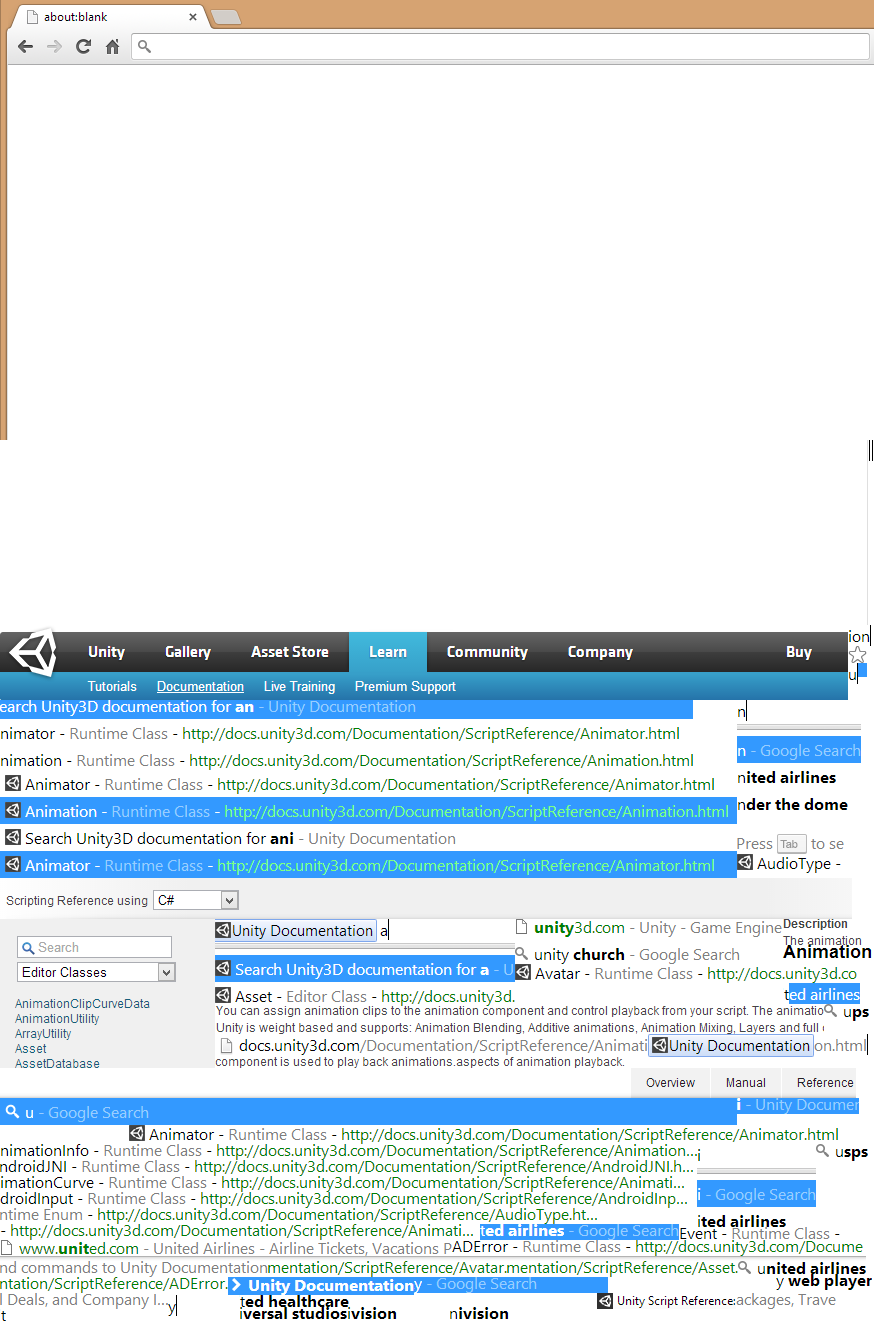
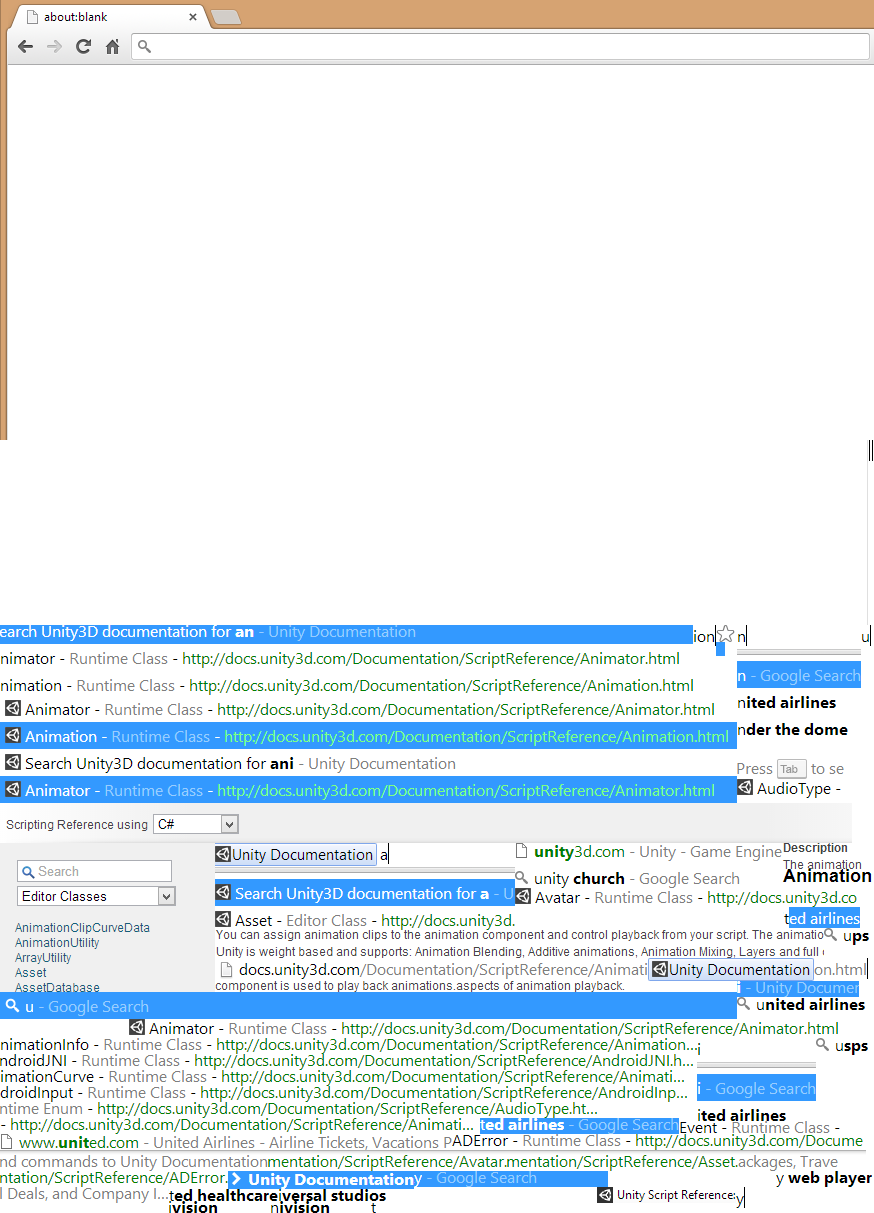
Github page and animation changes.

diff --git a/unity_docs_anim.js b/unity_docs_anim.js
@@ -1,1 +1,1 @@
-anim_timeline = [{"delay": 90, "blit": [["0", "0", "874", "440", "0", "0"]]}, {"delay": 180, "blit": [["872", "440", "1", "21", "157", "35"]]}, {"delay": 90, "blit": [["871", "440", "1", "21", "157", "35"]]}, {"delay": 90, "blit": [["848", "663", "10", "21", "157", "35"], ["0", "1098", "737", "27", "132", "71"], ["816", "1144", "52", "17", "138", "105"], ["824", "1004", "45", "17", "138", "132"], ["738", "1261", "128", "13", "138", "159"], ["0", "1256", "866", "5", "8", "185"]]}, {"delay": 90, "blit": [["737", "700", "124", "114", "166", "35"], ["449", "1307", "100", "12", "166", "160"]]}, {"delay": 90, "blit": [["697", "1144", "119", "83", "175", "35"], ["347", "1307", "102", "12", "175", "133"], ["239", "1307", "108", "12", "175", "160"]]}, {"delay": 90, "blit": [["783", "983", "77", "21", "178", "35"], ["480", "1224", "199", "16", "179", "79"], ["0", "1309", "86", "12", "178", "106"], ["239", "1295", "110", "12", "178", "133"], ["0", "1240", "452", "16", "138", "158"], ["736", "1293", "100", "16", "590", "160"], ["0", "1293", "168", "16", "691", "160"]]}, {"delay": 900, "blit": [["168", "1295", "71", "21", "184", "35"], ["737", "834", "107", "20", "490", "37"], ["0", "1261", "268", "16", "598", "40"], ["232", "1278", "9", "14", "853", "78"], ["414", "1277", "194", "16", "184", "79"], ["776", "1274", "96", "16", "184", "106"], ["515", "919", "267", "45", "138", "131"], ["414", "1293", "183", "14", "407", "160"], ["597", "1208", "100", "16", "590", "160"], ["608", "1277", "168", "16", "691", "160"]]}, {"delay": 900, "blit": [["648", "1034", "166", "23", "133", "35"], ["737", "814", "107", "20", "490", "37"], ["515", "983", "268", "16", "598", "40"], ["228", "1277", "186", "18", "137", "77"], ["858", "663", "9", "14", "853", "78"]]}, {"delay": 180, "blit": [["215", "919", "300", "87", "137", "35"], ["280", "700", "136", "16", "437", "79"], ["507", "1261", "231", "16", "510", "106"], ["649", "727", "30", "12", "742", "106"], ["323", "755", "71", "13", "437", "107"], ["515", "964", "342", "19", "137", "130"], ["268", "1261", "239", "16", "536", "133"], ["649", "727", "30", "12", "776", "133"], ["333", "728", "54", "13", "480", "134"], ["5", "775", "16", "16", "137", "157"], ["452", "1240", "411", "16", "157", "160"], ["0", "1277", "228", "16", "569", "160"], ["649", "727", "30", "12", "798", "160"], ["0", "1125", "866", "19", "8", "184"], ["737", "854", "104", "19", "137", "211"], ["0", "1208", "597", "16", "265", "214"], ["70", "728", "17", "11", "246", "215"], ["0", "1256", "866", "5", "8", "239"]]}, {"delay": 180, "blit": [["861", "625", "10", "21", "310", "35"], ["0", "700", "693", "70", "167", "79"], ["0", "1160", "693", "16", "168", "160"], ["0", "1192", "687", "16", "176", "187"], ["0", "1144", "697", "16", "167", "214"]]}, {"delay": 450, "blit": [["9", "722", "4", "21", "319", "35"], ["737", "1098", "122", "16", "422", "79"], ["372", "700", "44", "12", "544", "79"], ["9", "1144", "688", "16", "176", "160"], ["0", "1176", "687", "16", "176", "187"], ["680", "1227", "150", "12", "230", "214"], ["0", "1224", "480", "16", "384", "214"]]}, {"delay": 450, "blit": [["25", "778", "66", "12", "302", "40"], ["0", "824", "737", "54", "132", "71"]]}, {"delay": 450, "blit": [["848", "625", "23", "21", "352", "35"], ["0", "770", "737", "54", "132", "98"], ["679", "1227", "164", "12", "229", "187"], ["222", "1176", "465", "16", "395", "187"], ["53", "1176", "164", "12", "229", "214"], ["219", "1176", "465", "16", "395", "214"]]}, {"delay": 180, "blit": [["870", "440", "1", "21", "374", "35"]]}, {"delay": 180, "blit": [["869", "440", "1", "21", "374", "35"]]}, {"delay": 180, "blit": [["868", "440", "1", "21", "374", "35"]]}, {"delay": 180, "blit": [["0", "440", "867", "185", "7", "65"]]}, {"delay": 1050, "blit": [["597", "1293", "139", "16", "24", "9"], ["215", "1034", "433", "23", "133", "35"], ["814", "1034", "54", "21", "566", "35"], ["848", "646", "19", "17", "847", "38"], ["867", "440", "1", "185", "7", "65"], ["0", "625", "848", "75", "26", "89"], ["0", "1068", "856", "30", "18", "184"], ["0", "878", "852", "41", "22", "234"], ["0", "919", "215", "149", "26", "291"], ["782", "945", "90", "13", "265", "297"], ["782", "919", "80", "26", "265", "332"], ["215", "1057", "241", "11", "348", "349"], ["215", "1006", "609", "28", "265", "384"], ["456", "1057", "169", "11", "266", "418"]]}, {"delay": 4000, "blit": []}]
+anim_timeline = [{"delay": 90, "blit": [["0", "0", "874", "440", "0", "0"]]}, {"delay": 180, "blit": [["872", "440", "1", "21", "157", "35"]]}, {"delay": 90, "blit": [["871", "440", "1", "21", "157", "35"]]}, {"delay": 90, "blit": [["861", "625", "10", "21", "157", "35"], ["0", "992", "737", "27", "132", "71"], ["816", "1038", "52", "17", "138", "105"], ["824", "928", "45", "17", "138", "132"], ["737", "997", "128", "13", "138", "159"], ["0", "1150", "866", "5", "8", "185"]]}, {"delay": 90, "blit": [["737", "625", "124", "114", "166", "35"], ["270", "1201", "100", "12", "166", "160"]]}, {"delay": 90, "blit": [["697", "1038", "119", "83", "175", "35"], ["168", "1201", "102", "12", "175", "133"], ["278", "1189", "108", "12", "175", "160"]]}, {"delay": 90, "blit": [["783", "907", "77", "21", "178", "35"], ["480", "1118", "199", "16", "179", "79"], ["370", "1201", "86", "12", "178", "106"], ["168", "1189", "110", "12", "178", "133"], ["0", "1134", "452", "16", "138", "158"], ["738", "1155", "100", "16", "590", "160"], ["0", "1187", "168", "16", "691", "160"]]}, {"delay": 900, "blit": [["736", "1187", "71", "21", "184", "35"], ["737", "759", "107", "20", "490", "37"], ["0", "1155", "268", "16", "598", "40"], ["232", "1172", "9", "14", "853", "78"], ["414", "1171", "194", "16", "184", "79"], ["776", "1171", "96", "16", "184", "106"], ["515", "843", "267", "45", "138", "131"], ["414", "1187", "183", "14", "407", "160"], ["597", "1102", "100", "16", "590", "160"], ["608", "1171", "168", "16", "691", "160"]]}, {"delay": 900, "blit": [["648", "958", "166", "23", "133", "35"], ["737", "739", "107", "20", "490", "37"], ["515", "907", "268", "16", "598", "40"], ["228", "1171", "186", "18", "137", "77"], ["716", "642", "9", "14", "853", "78"]]}, {"delay": 180, "blit": [["215", "843", "300", "87", "137", "35"], ["280", "625", "136", "16", "437", "79"], ["507", "1155", "231", "16", "510", "106"], ["663", "679", "30", "12", "742", "106"], ["351", "704", "71", "13", "437", "107"], ["515", "888", "342", "19", "137", "130"], ["268", "1155", "239", "16", "536", "133"], ["663", "679", "30", "12", "776", "133"], ["333", "653", "54", "13", "480", "134"], ["5", "700", "16", "16", "137", "157"], ["452", "1134", "411", "16", "157", "160"], ["0", "1171", "228", "16", "569", "160"], ["663", "679", "30", "12", "798", "160"], ["0", "1019", "866", "19", "8", "184"], ["737", "779", "104", "19", "137", "211"], ["0", "1102", "597", "16", "265", "214"], ["70", "653", "17", "11", "246", "215"], ["0", "1150", "866", "5", "8", "239"]]}, {"delay": 180, "blit": [["706", "625", "10", "21", "310", "35"], ["0", "625", "693", "70", "167", "79"], ["0", "1054", "693", "16", "168", "160"], ["0", "1086", "687", "16", "176", "187"], ["0", "1038", "697", "16", "167", "214"]]}, {"delay": 450, "blit": [["9", "647", "4", "21", "319", "35"], ["737", "981", "122", "16", "422", "79"], ["372", "625", "44", "12", "544", "79"], ["9", "1038", "688", "16", "176", "160"], ["0", "1070", "687", "16", "176", "187"], ["680", "1121", "150", "12", "230", "214"], ["0", "1118", "480", "16", "384", "214"]]}, {"delay": 450, "blit": [["25", "703", "66", "12", "302", "40"], ["0", "749", "737", "54", "132", "71"]]}, {"delay": 450, "blit": [["693", "625", "23", "21", "352", "35"], ["0", "695", "737", "54", "132", "98"], ["679", "1121", "164", "12", "229", "187"], ["222", "1070", "465", "16", "395", "187"], ["53", "1070", "164", "12", "229", "214"], ["219", "1070", "465", "16", "395", "214"]]}, {"delay": 180, "blit": [["870", "440", "1", "21", "374", "35"]]}, {"delay": 180, "blit": [["869", "440", "1", "21", "374", "35"]]}, {"delay": 180, "blit": [["868", "440", "1", "21", "374", "35"]]}, {"delay": 180, "blit": [["0", "440", "867", "185", "7", "65"]]}, {"delay": 1050, "blit": [["597", "1187", "139", "16", "24", "9"], ["215", "958", "433", "23", "133", "35"], ["814", "958", "54", "21", "566", "35"], ["716", "625", "19", "17", "847", "38"], ["867", "440", "1", "185", "7", "65"], ["0", "803", "852", "40", "22", "67"], ["0", "843", "215", "149", "26", "123"], ["782", "869", "90", "13", "265", "129"], ["782", "843", "80", "26", "265", "164"], ["215", "981", "241", "11", "348", "181"], ["215", "930", "609", "28", "265", "216"], ["456", "981", "169", "11", "266", "250"]]}, {"delay": 4000, "blit": []}]

diff --git a/example.html b/example.html
@@ -31,6 +31,10 @@
       position: relative;
       overflow: hidden;
     }
+
+    .unity_logo {
+      margin-bottom: 10px;
+    }
   </style>
 
 </head>
@@ -40,20 +44,43 @@
   <div class="container">
     <h2 class="header">
       <img class="unity_logo" src="unity_logo.png" alt="Unity">
-      <span>Google Chrome extension for fast documentation reference</span>
+      <span>Google Chrome extension for Unity&reg; scripting reference</span>
     </h2>
 
-    <canvas id="anim_target" class="anim_target" width="874" height="440">
+    <canvas id="anim_target" class="anim_target" width="874" height="260">
     <div id="anim_fallback" class="anim_target" style="width: 874px; height: 260px; position: relative;">
       <img src="unity_anim_fallback.png">
     </div>
     </canvas> 
 
     <h2>Installation</h2>
-  </div>
 
-  <div>
-    
+    <p>The extension is not available in the Google Chrome Web Store yet, so you'll have to do things manually:</p>
+
+    <ol>
+      <li>
+        Download the zipped extension from <a href="https://github.com/proof/chrome-unity-docs/archive/master.zip">GitHub</a>.
+      </li>
+      <li>
+        Unzip the archive to some directory, for example <strong>c:/unity-docs/</strong>.
+      </li>
+      <li>
+        In Google Chrome, go to <strong>Tools</strong> > <strong>Extensions</strong> and enable <strong>Developer Mode</strong>.
+      </li>
+      <li>
+        Click on <strong>Load unpacked extension...</strong> and select the folder you unpacked the archive. (<strong>c:/unity-docs/</strong>)
+      </li>
+      <li>
+        Start using it!
+      </li>
+    </ol>
+
+    <p>
+      <small>
+        Unity&reg; and the Unity&reg; logo are registered trademarks of Unity Technologies.
+        This extension is not a product of Unity Technologies.
+      </small>
+    </p>
   </div>
 
 <script type="text/javascript" src="unity_docs_anim.js"></script>
